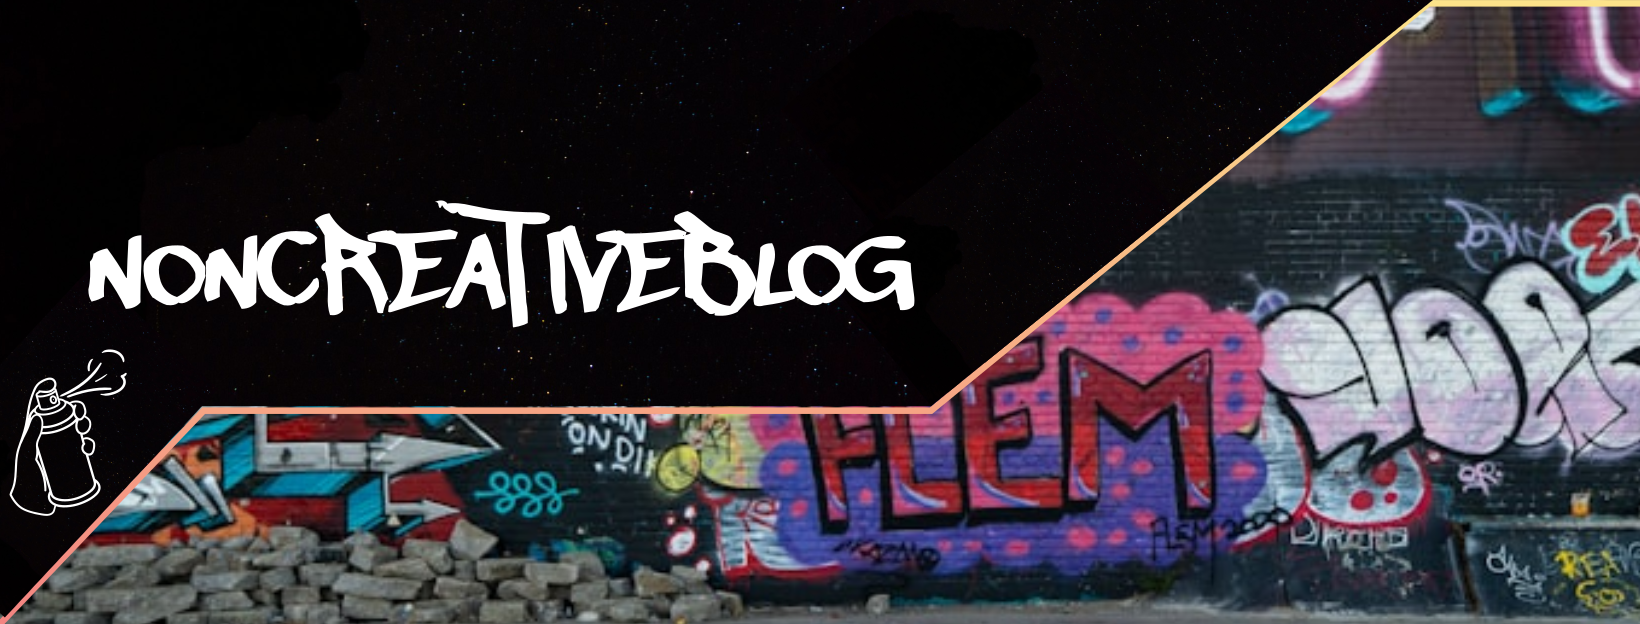
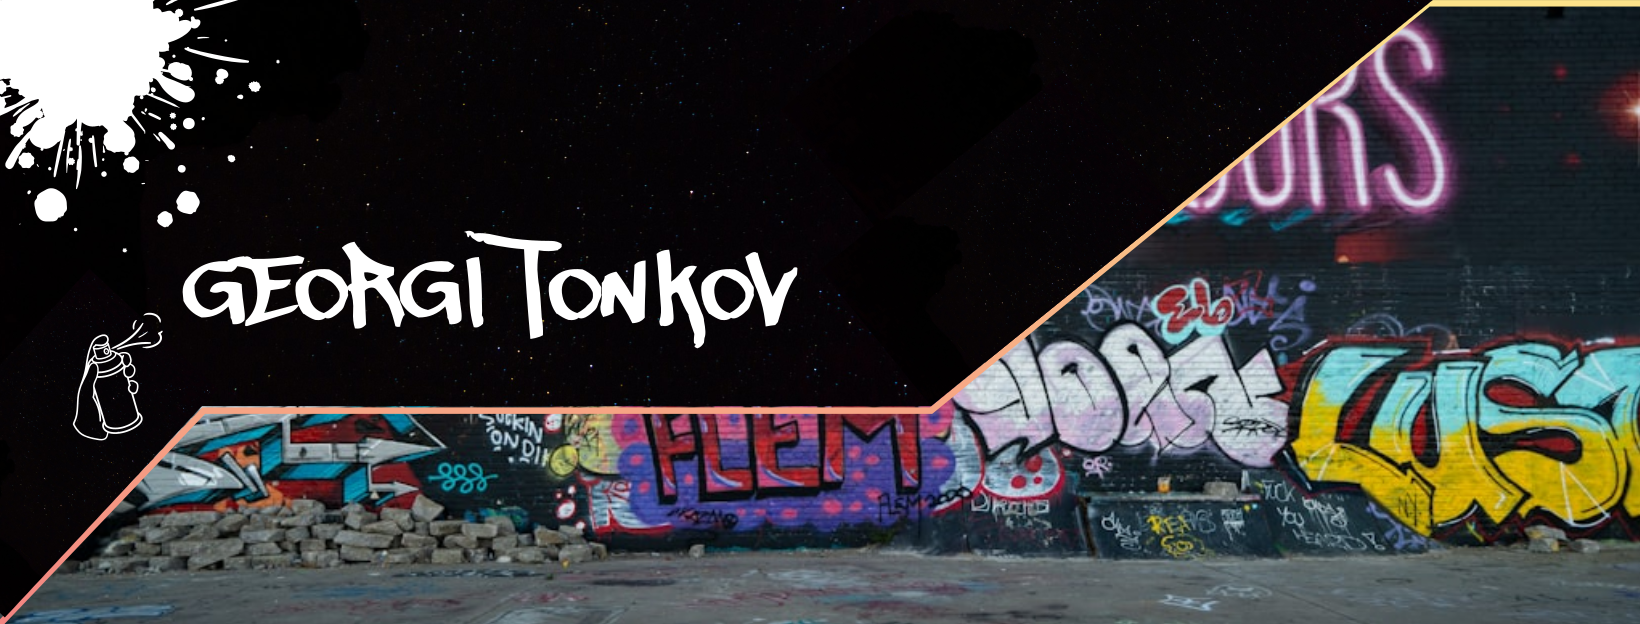
add files

diff --git a/pages/blog.js b/pages/blog.js
@@ -6,7 +6,7 @@ import { FaSortAmountDownAlt } from "react-icons/fa";
 import { FaHotjar } from "react-icons/fa";
 import { GiSupersonicArrow } from "react-icons/gi";
 import { FcClearFilters } from "react-icons/fc";
-import Head from "next/head";
+import { RxTimer } from "react-icons/rx";
 import { CgLastpass } from "react-icons/cg";
 import Link from "next/link";
 import { GiVikingLonghouse } from "react-icons/gi";
@@ -201,7 +201,7 @@ export function Blog({ posts, initialCategory, author }) {
                       >
                         <span className="hover:underline flex items-center">
                           <MdOutlineFavorite className="mr-2 text-red-700" />{" "}
-                          Книжки и филми
+                          Любимо
                         </span>
                       </li>
                       <li
@@ -212,8 +212,8 @@ export function Blog({ posts, initialCategory, author }) {
                           href="/"
                           className="hover:underline flex items-center cursor-pointer"
                         >
-                          <FaHotjar className="mr-2 text-yellow-400" /> Лични
-                          истории
+                          <RxTimer className="mr-2 text-yellow-700" />
+                          Хрониките на времето
                         </span>
                       </li>
                       <li className="  ">
@@ -346,7 +346,7 @@ export function Blog({ posts, initialCategory, author }) {
                             >
                               <span className="hover:underline flex items-center">
                                 <MdOutlineFavorite className="mr-2 text-red-700" />{" "}
-                                Книжки и филми
+                                Любимо
                               </span>
                             </li>
                             <li
@@ -355,13 +355,10 @@ export function Blog({ posts, initialCategory, author }) {
                                 handleCategoryChange("Georgis stories")
                               }
                             >
-                              <a
-                                href="/"
-                                className="hover:underline flex items-center cursor-pointer"
-                              >
-                                <FaHotjar className="mr-2 text-yellow-400" />{" "}
-                                Лични истории
-                              </a>
+                              <span className="hover:underline flex items-center cursor-pointer">
+                                <RxTimer className="mr-2 text-yellow-700" />
+                                Хрониките на времето
+                              </span>
                             </li>
                             <li className="  ">
                               <a
@@ -468,7 +465,7 @@ export function Blog({ posts, initialCategory, author }) {
                           </button>
                         </div>
                         <div className="absolute bottom-0 left-0 bg-gradient-to-t  bg-gray-700  text-white  px-2 proxima">
-                          {c.readingTime}min
+                          {c.readingTime} минути
                         </div>
                       </div>
                       <div className="  top-0 left-0 text-slate-900 font-semibold rounded-b-md text-lg bg-gray-100  bg-opacity-100 p-4">

diff --git a/components/Navbar/Navbar.jsx b/components/Navbar/Navbar.jsx
@@ -59,8 +59,12 @@ const Navbar = () => {
         <div className="w-full   flex h-12 ">
           <a href={"/"}>
             {" "}
-            <div className=" absolute top-1 lg:hidden   left-2">
-              <Image src={logo} alt="Georgi Tonkov" className="w-2/3 h-auto" />
+            <div className=" absolute top-1  lg:right-8">
+              <Image
+                src={blog}
+                alt="Georgi Tonkov"
+                className="w-2/3 lg:w-64 h-auto"
+              />
             </div>
           </a>
 
@@ -73,12 +77,12 @@ const Navbar = () => {
             </a>
 
             <Link
-              href={"/about"}
+              href={"/authors/georgi-tonkov"}
               className={` font-bold text-md hover-1 mx-4 hover-1`}
             >
               <div className="flex items-center">
                 <GiNinjaHead className="mr-2" />
-                <span>Tonkoff G.</span>
+                <span>За мен</span>
               </div>
             </Link>
 
@@ -126,7 +130,7 @@ const Navbar = () => {
             </div>
           </div>
 
-          <div className="hidden lg:flex   mr-12">
+          {/* <div className="hidden lg:flex   mr-12">
             <a
               href="https://buymeacoffee.com/tonkoff"
               className={`${
@@ -138,7 +142,7 @@ const Navbar = () => {
               <SiBuymeacoffee className="mr-2" />
               Buy me a coffee
             </a>
-          </div>
+          </div> */}
         </div>
         <div className="block lg:hidden ">
           <button
@@ -196,7 +200,7 @@ const Navbar = () => {
                 </a>
 
                 <Link
-                  href={"/about"}
+                  href={"/authors/georgi-tonkov"}
                   className={`block text-gray-100   text-2xl mt-2 hover-1`}
                 >
                   <div className="flex items-center">
